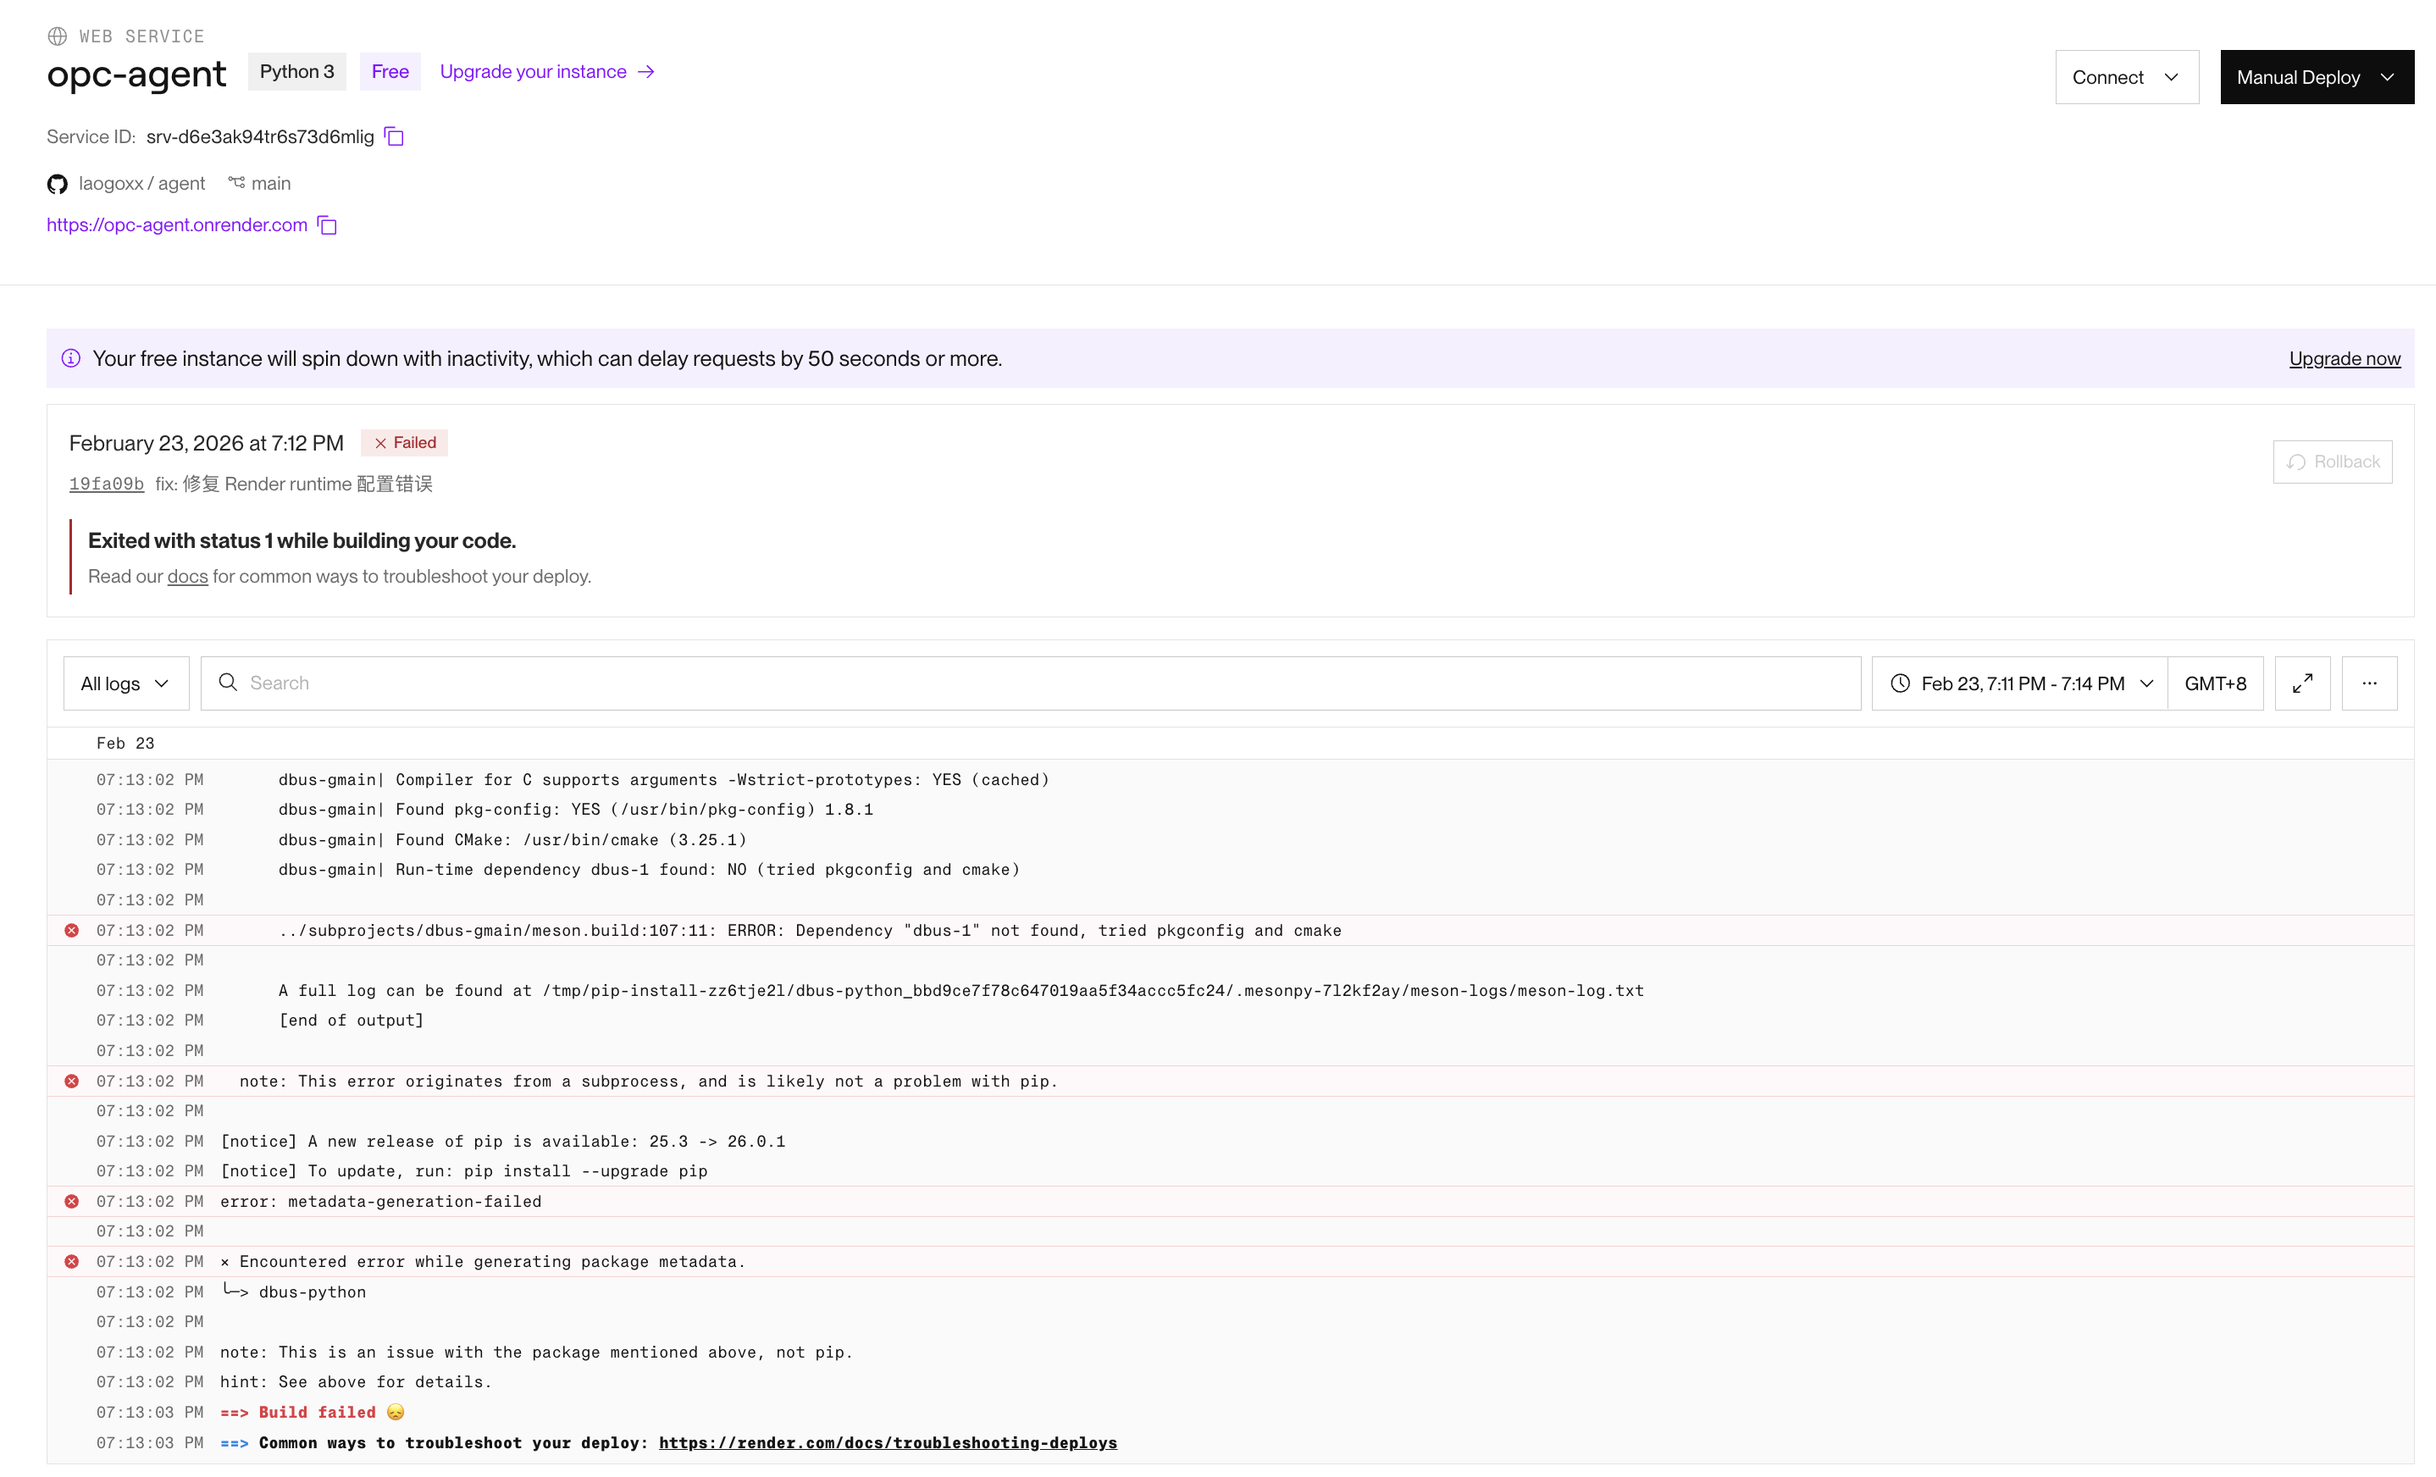
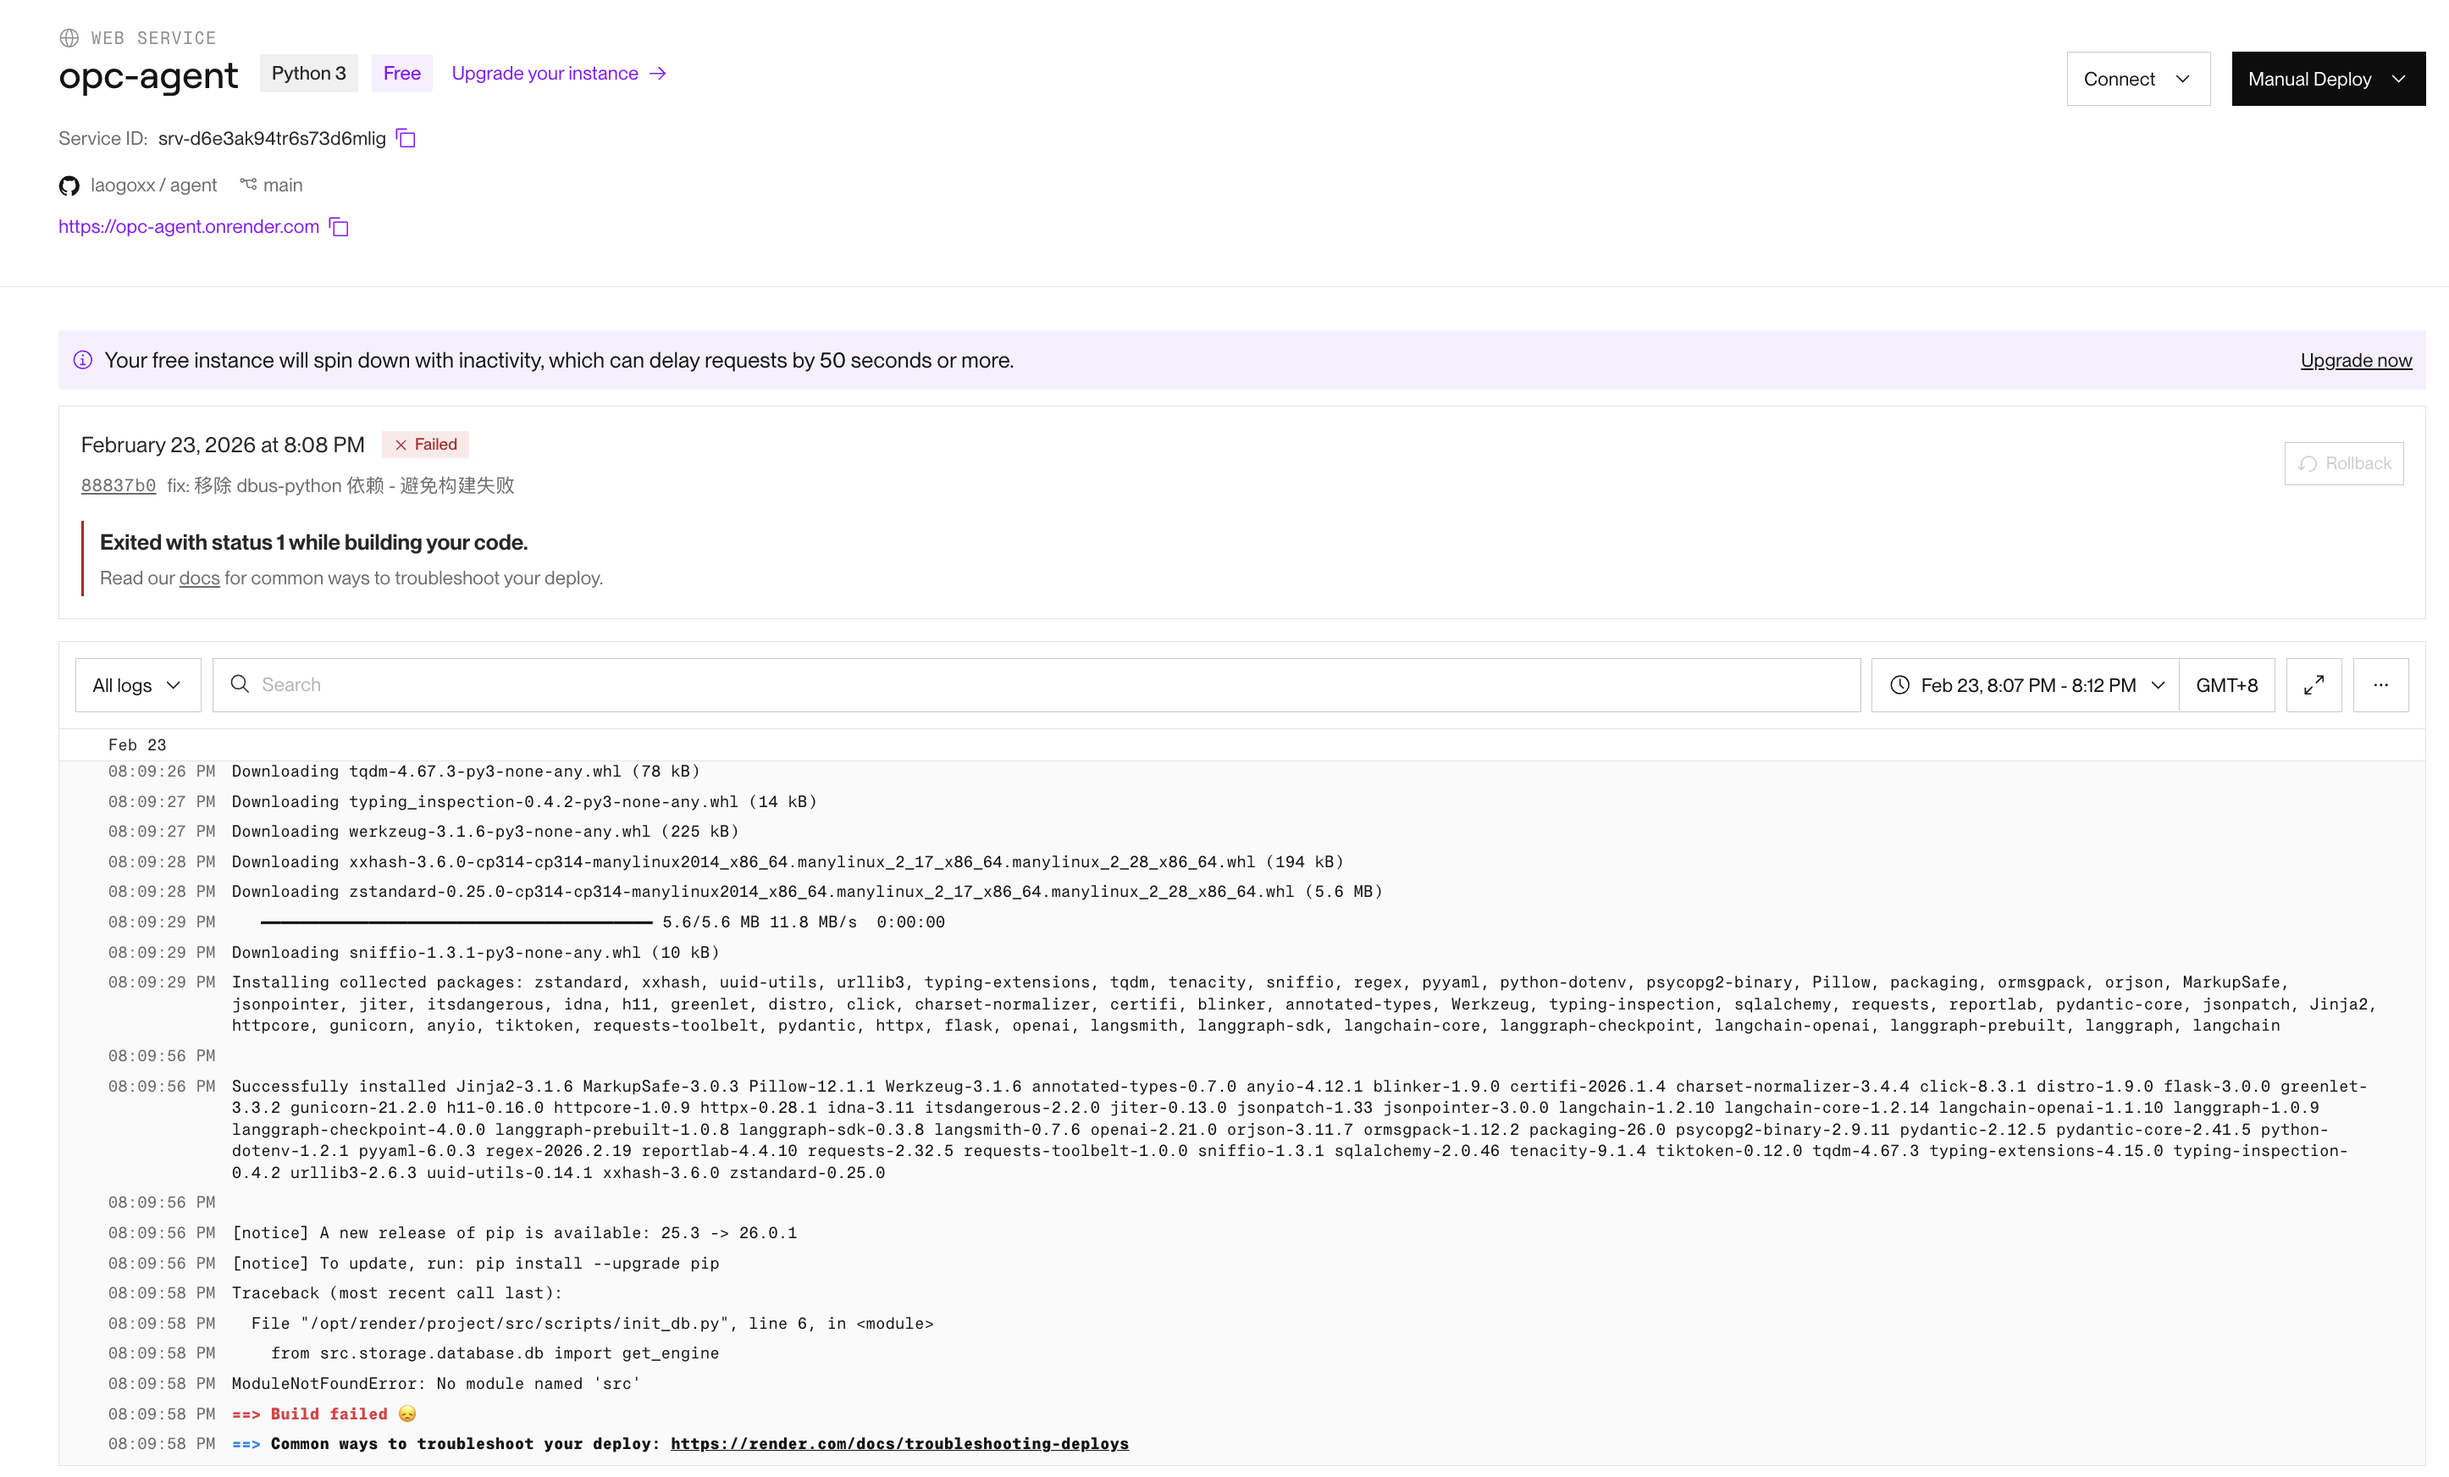
fix: 修复 init_db.py 导入路径问题

diff --git a/scripts/init_db.py b/scripts/init_db.py
@@ -2,9 +2,16 @@
 数据库初始化脚本
 创建客户信息相关的数据表
 """
+import sys
+import os
+
+# 添加项目根目录到 Python 路径
+project_root = os.path.abspath(os.path.join(os.path.dirname(__file__), '..'))
+sys.path.insert(0, project_root)
+
 from sqlalchemy import text
-from src.storage.database.db import get_engine
-from src.storage.database.customer_models import Base
+from storage.database.db import get_engine
+from storage.database.customer_models import Base
 import logging
 
 logger = logging.getLogger(__name__)
@@ -60,8 +67,6 @@ def drop_customer_tables():
 
 
 if __name__ == "__main__":
-    import sys
-
     action = sys.argv[1] if len(sys.argv) > 1 else "init"
 
     if action == "init":
